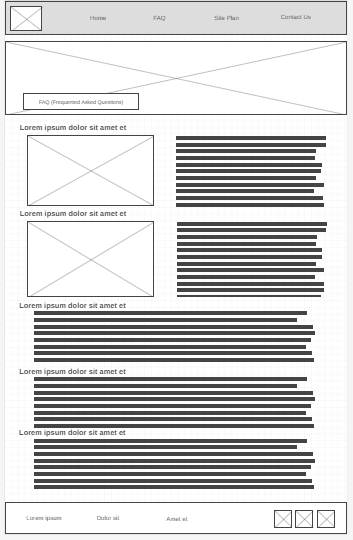
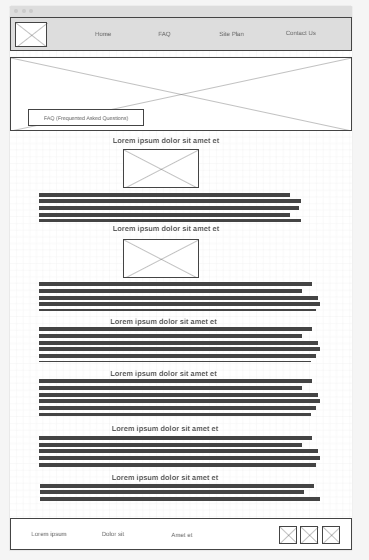
completed the white water rafting website faq page

diff --git a/wwr/faq.html b/wwr/faq.html
@@ -1,12 +1,92 @@
 <!DOCTYPE html>
 <html lang="en">
+
 <head>
     <meta charset="UTF-8">
     <meta name="viewport" content="width=device-width, initial-scale=1.0">
-    <title>FAQ - White Water Rafting</title>
-    <link rel="stylesheet" href="styles/faq.css">
+    <title>Whitewater Rafting Vacations | Dry Oar Boating | FAQ</title>
+    <link rel="stylesheet" href="styles/styles.css">
 </head>
+
 <body>
+    <div id="content">
+        <header>
+            <a href="index.html" id="logo_link">
+                <img class="logo" src="images/logo.png" alt="Dry Oar Logo">
+            </a>
+            <nav>
+                <a href="index.html">Home</a>
+                <a href="faq.html">FAQ</a>
+                <a href="site-plan-rafting.html">Site Plan</a>
+                <a href="contactus.html">Contact Us</a>
+            </nav>
+        </header>
+
+        <div id="faq-hero">
+            <div id="faq-hero-box">
+                <img id="faq-hero-img" src="images/rafting5_1024.jpg" alt="People enjoying white water rafting">
+            </div>
+            <section id="faq-hero-msg">
+                <h1 class="home-title">FAQ (Frequently Asked Questions)</h1>
+            </section>
+        </div>
+
+        <main class="faq-grid">
+            <section class="question1">
+                <h2>Is this a good trip for kids? What are the age ranges you allow?</h2>
+                <img src="images/rafting7_600.jpg" alt="People including kids enjoying white water rafting">
+                <p class="faq-content">Absolutely this is a good trip for children of all ages. We have found however that children over the age of 8 seem to enjoy it more overall (And parents especially enjoy it more if their children are all over 8). A common concern we get from parents is that their children will be bored stuck on a boat for hours at a time. Surprisingly we deal with very few bored children of any age. The areas we are rafting through are some of the most beautiful in the world, and you never know what you might see around any corner. Not to mention the rapids which keep things very interesting. Each boat also comes equipped with a guide. It has been proven that river guides are unable to go for very long at all without telling stories...some of which are even true!</p>
+            </section>
+
+            <section class="question2">
+                <h2>Is whitewater rafting safe? I don't even know how to swim! Can I still come?</h2>
+                <img src="images/rafting21_600.png" alt="People enjoying rafting with their vest on">
+                <p class="faq-content">As with all adventure sports, there is an inherent and assumed element of risk. To help ensure your safety, our guides are all certified in Wilderness First aid and all start with at least 3 years of rafting experience. The most common injuries are sunburns and injuries that occur on land.
+                Everyone on commercial rafting trips wears coast guard approved life vest or personal flotation device (PFD). Many non swimmers go on rafting trips and have a great time. Your guide will give you an in depth and engaging safety talk before your trip begins explaining what you should prepare for and do in the event that you fall out of the raft.</p>
+            </section>
+
+            <section class="question3">
+                <h2>What is included in the trip?</h2>
+                <p class="faq-content">We will provide all necessary camping equipment. This includes a sleeping bag, foam pad, waterproof duffle bag, small waterproof day bag, tent and a cot, eating utensils and camping chair.
+                We provided water and lemonade during the day. Coffee, tea and hot chocolate are provided during the morning and evening hours. You may bring beer, liquor and soft drinks (in reasonable amounts, 2 cans per day). You may purchase these items either the night before the trip, or on your way to the put-in. 3 meals per day, plus snacks</p>
+            </section>
+
+            <section class="question4">
+                <h2>What do I need to bring?</h2>
+                <p class="faq-content">The most effective way to plan for temperature and weather changes in the Canyon is to be prepared for both hot & dry and cold & wet Rain jacket and rain pants- do not bring ponchos Quick dry shirts and shorts long sleeve cotton shirt and pants- helps keep you cooler on hot days. Button down shirts provide more sun protection on the neck Light Weight Cotton Pant, Nylon Pant or Sarong the best thing for men to wear are swim trunks as shorts if you are cold natured, bring polypropylene long underwear top and bottom Women wear swim suits or quick dry underwear and sport bras as a base layer during the day. Over the base layer, wear a pair of quick dry shorts and the shirt of your choice (polypropylene if you are cold, cotton if you are hot). Two piece swim suits are convenient when changing or going to the bathroom. hat- large brim hat offers protection from the sun with a good quality strap. Sunglasses with strap socks- used for hiking and to protect your feet from the sun. sandals or water shoes- if not used to hiking in these, bring a pair of shoes you have hiked in before camper wear: Bring something comfortable to wear around camp. Cotton dresses, skirts and sarongs are all popular options. Sleep wear: You might choose to sleep in your camp wear. Otherwise, you might like to bring something comfortable to sleep in. water bottle small day pack for hikes moisturizing lotion headlamp or flashlight moleskin waterproof sunscreen and lip balm optional items: gloves fleece jacket towel bandana small pillow hygiene products: toothpaste, toothbrush, tissue, nail clippers, feminine hygiene products, extra eyeglasses or contacts, biodegradable soap and shampoo camera equipment book, watercolors, journal and pen</p>
+            </section>
+
+            <section class="question5">
+                <h2>What is so great about whitewater rafting anyway?</h2>
+                <p class="faq-content">Are you kidding me! What's not great about whitewater rafting!...Let's describe a common day on the river.
+                Arise in the soft light of the early morning after a night spent sleeping under a beautiful starry sky. Have a hearty warm breakfast of fresh blueberry pancakes or omelets to order, then pack your things and prepare for the day. The day is filled with some combination of swift water, rapids, calms, hikes, history, geology, stories, and more good food. We try to hit camp around 4 or 5, after setting up your cot you can relax with a good book or good company by the river, or explore around camp while your guides prepare your dinner...something perhaps like steak and potatoes, or grilled salmon...and dutch oven brownies...you won't forget the dutch oven brownies. After dinner it's more relaxing, and you might even be able to talk your guide into another story or two to send you off to bed under more stars than you thought were possible.</p>
+            </section>
+
+            <section class="question6">
+                <h2>How far in advance should I book my trip?</h2>
+                <p class="faq-content">If you have specific dates you need, we recommend booking a year in advance. If you can be more flexible 6 months in advance is usually sufficient.</p>
+            </section>
+        </main>
+
+
+        <footer>
+            <p>Dry Oar &copy; 2023 - Anderson Havah</p>
+            <p><a href="site-plan-rafting.html">Site Plan</a></p>
+            <p><a href="contactus.html">Contact Us</a></p>
+            <div class="social">
+                <a href="https://facebook.com" target="_blank">
+                    <img src="images/facebook.png" alt="fb icon">
+                </a>
+                <a href="https://twitter.com" target="_blank">
+                    <img src="images/twitter.png" alt="twitter icon">
+                </a>
+                <a href="https://instagram.com" target="_blank">
+                    <img src="images/instagram.png" alt="instagram icon">
+                </a>
+            </div>
+        </footer>
+    </div>
     
 </body>
+
 </html>

diff --git a/wwr/styles/styles.css b/wwr/styles/styles.css
@@ -118,6 +118,10 @@ footer .social img {
     margin: 100px;
 }
 
+#hero-img {
+    width: 100%;
+}
+
 #hero-msg h4 {
     color: #FFFFFF;
 }
@@ -150,10 +154,6 @@ main section img {
     box-sizing: border-box;
 }
 
-#hero-img {
-    width: 100%;
-}
-
 .card-img, .mountains {
     width: 100%;
 }
@@ -183,7 +183,7 @@ main section img {
     color: #0077B6;
     font-family: Charm, Helvetica, sans-serif;
     font-size: 2em;
-    margin-top: 10px;
+    margin: 5px;
 }
 
 h4 {
@@ -227,8 +227,101 @@ h4 {
     margin: 200px 0;
 }
 
+/* FAQ page styling */
+#faq-hero {
+    display: grid;
+    grid-template-columns: 1fr 3fr 1fr;
+    margin-top: 20px;
+}
+
+#faq-hero-img {
+    width: 100%;
+    height: 70%;
+}
+
+#faq-hero-box {
+    grid-column: 1/4;
+    grid-row: 1/3;
+    z-index: -1;
+}
+
+#faq-hero-msg {
+    grid-column: 2/3;
+    grid-row: 1/2;
+    margin-top: 550px;
+    margin-left: -150px;
+    border: 2px solid black;
+    width: 500px;
+}
+
+#faq-hero-msg h1 {
+    text-align: center;
+}
+
+.faq-grid {
+    display: grid;
+    grid-template-columns: repeat(10, 1fr);
+    margin-top: -250px;
+    gap: 10px;
+    margin-left: 20px;
+}
+
+.faq-grid h2 {
+    text-align: center;
+}
+
+.faq-grid .question1 img, .faq-grid .question2 img {
+    box-sizing: border-box;
+}
+
+.faq-grid .question1 {
+    grid-column: 2/10;
+    grid-row: 1/2;
+}
+
+.faq-grid .question1 img {
+    grid-column: 2/5;
+    grid-row: 1/2;
+}
+
+.faq-grid .question1 p {
+    grid-column: 6/10;
+    grid-row: 1/2;
+}
+
+.faq-grid .question2 {
+    grid-column: 2/10;
+    grid-row: 3/5;
+}
+
+.faq-grid .question3 {
+    grid-column: 2/10;
+    grid-row: 5/7;
+}
+
+.faq-grid .question4 {
+    grid-column: 2/10;
+    grid-row: 7/9;
+}
+
+.faq-grid .question5 {
+    grid-column: 2/10;
+    grid-row: 9/11;
+}
+
+.faq-grid .question6 {
+    grid-column: 2/10;
+    grid-row: 11/13;
+}
+
+.faq-grid p {
+    line-height: 1.5;
+    font-size: 1.2em;
+}
+
+
 @media screen and (max-width: 900px) {
-    #hero, .home-grid {
+    #hero, .home-grid, #faq-hero, #faq-grid {
         display: block;
         height: auto;
     }
@@ -239,10 +332,10 @@ h4 {
         display: block;
         padding: 15px;
     }
-    #hero {
+    #hero, #faq-hero {
         margin-top: 0;
     }
-    #hero-msg {
+    #hero-msg, #faq-hero-msg {
         margin-top: 0;
     }
     #hero-msg h4 {
@@ -252,7 +345,7 @@ h4 {
         font-size: 25px;
         color: #6f7364;
     }
-    .rivers-card, .camping-card, .rapids-card { 
+    .rivers-card, .camping-card, .rapids-card, .question1, .question2, .question3, .question4, .question5, .question6 { 
         margin: 50px auto;
         width: 60%;
     }
